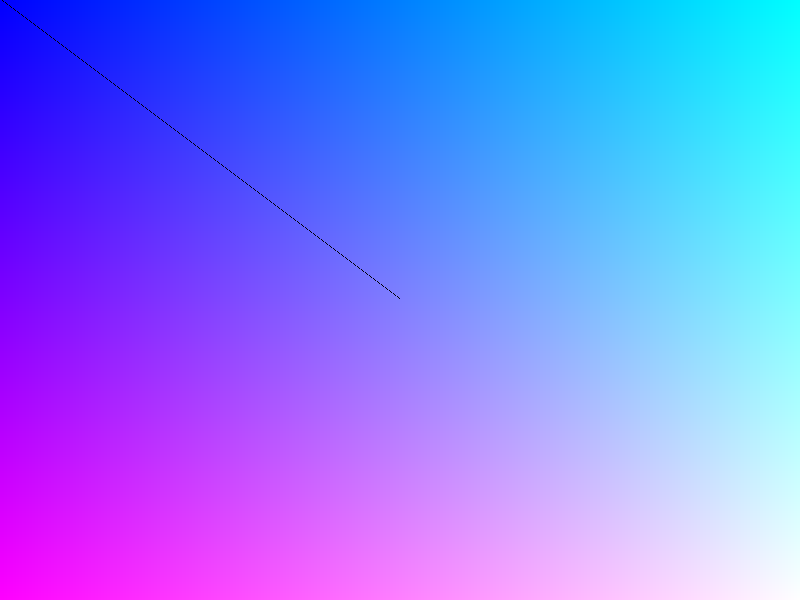
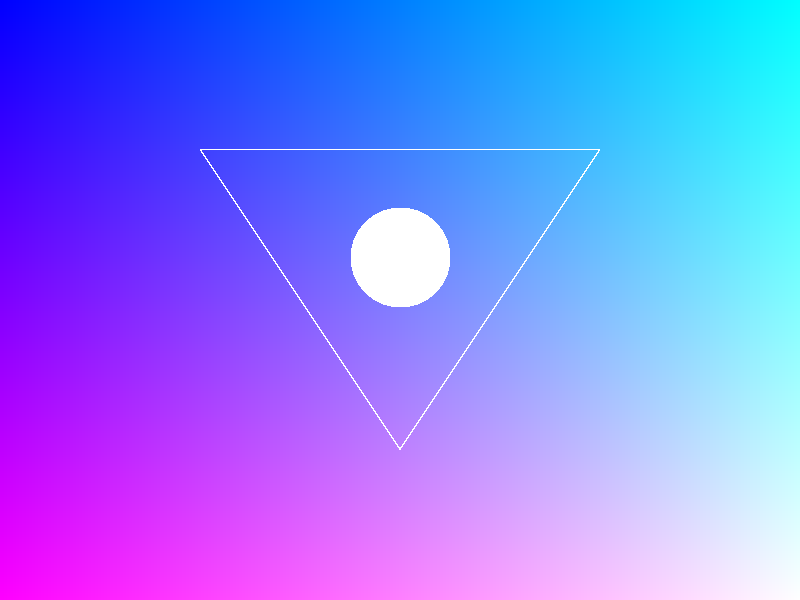
added an art

Changed region(s): [[0.4375, 0.33, 0.5625, 0.51], [0.25, 0.24, 0.2812, 0.27]]

diff --git a/src/main.rs b/src/main.rs
@@ -65,12 +65,15 @@ fn line(pixels: &mut [u32], width: usize, x1: usize, y1: usize, x2: usize, y2: u
     if x2 - x1 != 0 {
         let m = (y2 as f32 - y1 as f32) / (x2 as f32 - x1 as f32);
         for _x in x1..x2 {
-            if x1 >= 0 && x2 < height {
+            if _x >= 0 && _x < width {
                 let dx = _x as f32 - x1 as f32;
-                let _y = (m*dx + y1 as f32 - 1.0) as i32;
-                let _ny = (m*(dx+1.0) + y1 as f32 - 1.0) as i32;
+                let mut _y = (m*dx + y1 as f32 - 1.0) as usize;
+                let mut _ny = (m*(dx+1.0) + y1 as f32 - 1.0) as usize;
 
-                for y in _y.._ny {
+                if _ny < _y {
+                    swap(&mut _y, &mut _ny);
+                }
+                for y in _y as i32.._ny as i32+1 {
                     if y >= 0 && (y as usize) < height {
                         pixels[y as usize * width + _x] = color;
                     }
@@ -146,7 +149,10 @@ fn main() {
     background(&mut pixels, 0xFFFFFF);
 
     uvgradient(&mut pixels, WIDTH);
-    line(&mut pixels, WIDTH, WIDTH/2, HEIGHT/2, 0, 0, 0x000000);
+    line(&mut pixels, WIDTH, WIDTH/4, HEIGHT/4, WIDTH*3/4, HEIGHT/4, 0xFFFFFF);
+    line(&mut pixels, WIDTH, WIDTH/4, HEIGHT/4, WIDTH/2, HEIGHT*3/4, 0xFFFFFF);
+    line(&mut pixels, WIDTH, WIDTH*3/4, HEIGHT/4, WIDTH/2, HEIGHT*3/4, 0xFFFFFF);
+    circle(&mut pixels, WIDTH, WIDTH/2, HEIGHT*3/7, 50, 0xFFFFFF);
 
     // Generate a File
     let mut f = File::create("output.ppm").unwrap();
